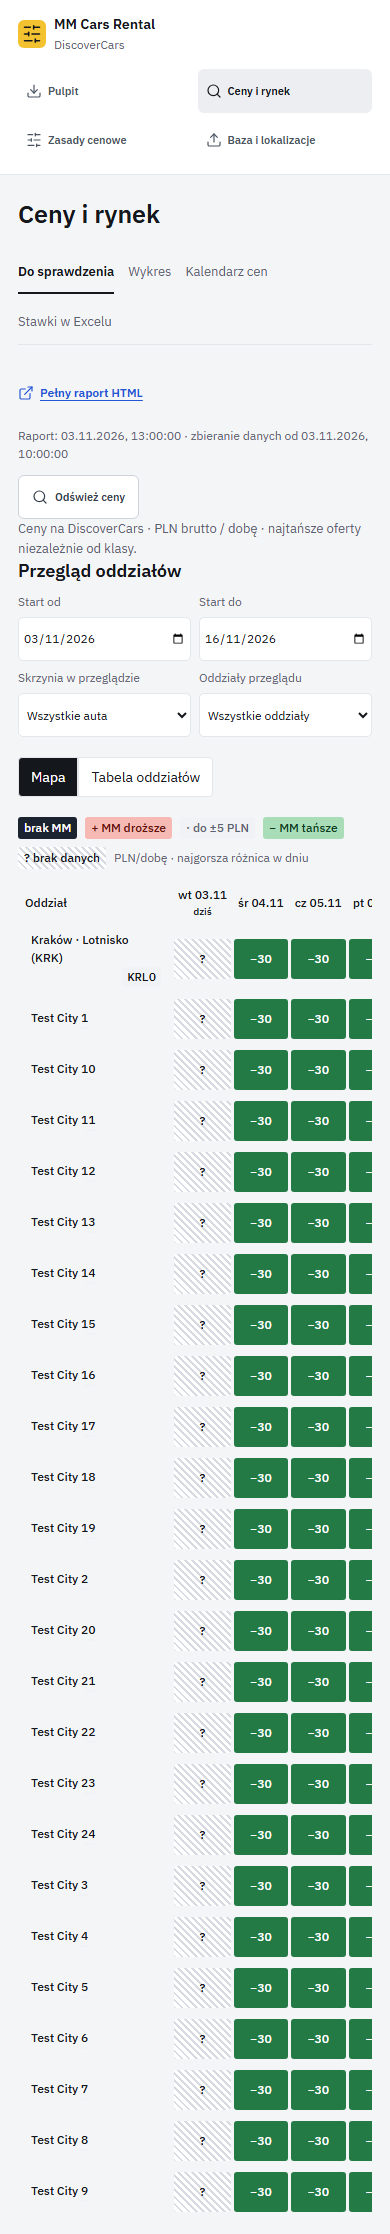
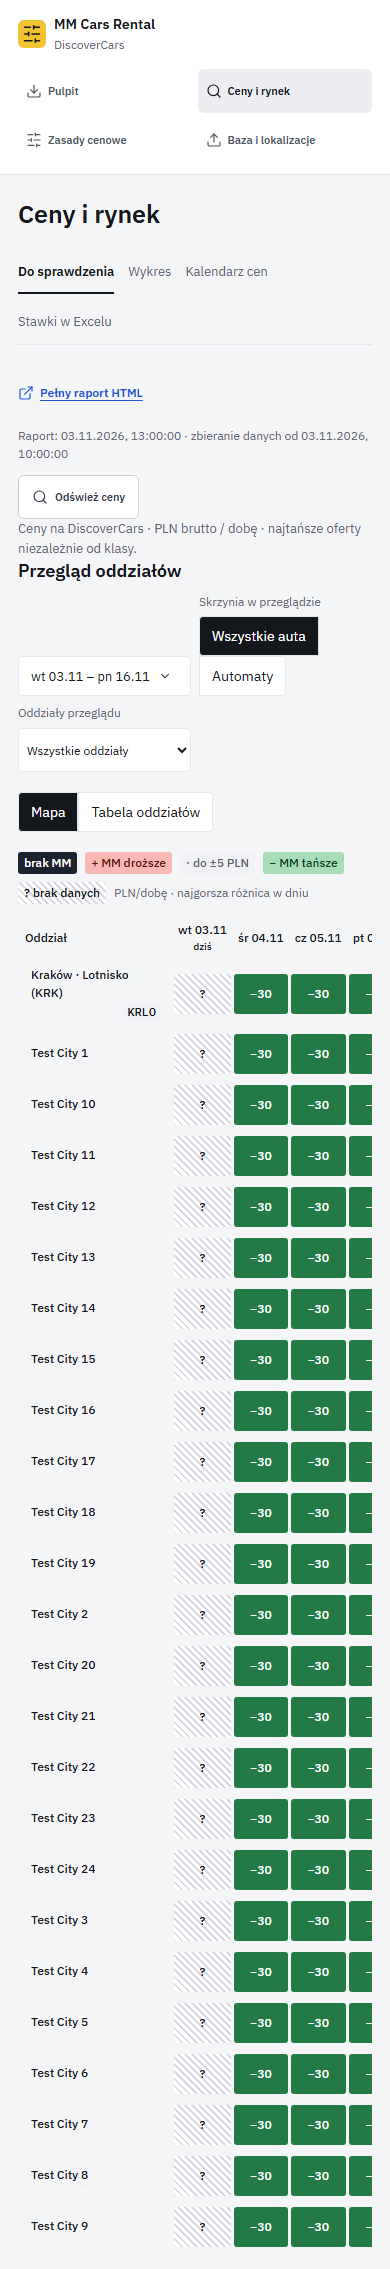
ui(stage 3): streamline branch matrix and explain bands in a side panel

diff --git a/rules-panel/src/BandMatrix.jsx b/rules-panel/src/BandMatrix.jsx
@@ -2,10 +2,13 @@ import React,{useEffect,useMemo,useState} from 'react';
 import {knownGroups} from './policy.mjs';
 import {buildBandMatrix,bandLabel,bandEvidence,MATRIX_BANDS} from './band-matrix.mjs';
 import {money} from './market-model.mjs';
-import {dayLabel} from './operations.mjs';
-import {gapLabel} from './market-review.mjs';
+import {weekdayDate,isWeekend} from './visual-format.mjs';
+import {PriceBadge} from './PriceBadge.jsx';
+import {BandDetail} from './BandDetail.jsx';
+const dayLabel=value=>weekdayDate(value,true);
 
-export function BandMatrix({data,rows,dates,location,transmission,model,workspace,service,onSelect,highlight}) {
+
+export function BandMatrix({data,rows,dates,location,transmission,model,workspace,service,onSelect,highlight,filters,onRules,onExcel}) {
  const groups=knownGroups(model),zones=data.locations.find(l=>l.scraper_label===location)?.zones??[];
  const [group,setGroup]=useState(groups.includes('CDMV')?'CDMV':groups[0]);
  const [chosen,setChosen]=useState('');const zone=zones.includes(chosen)?chosen:zones[0];
@@ -22,18 +25,23 @@ export function BandMatrix({data,rows,dates,location,transmission,model,workspac
  useEffect(()=>{if(!highlight)return;setLimit(n=>Math.max(n,dates.indexOf(highlight)+1));requestAnimationFrame(()=>document.getElementById('band-day-'+highlight)?.scrollIntoView({block:'nearest'}));},[highlight,dates.join(',')]);
  const current=state.key===key?state:{};
  const matrix=useMemo(()=>buildBandMatrix(dates,rows,data.report.durations),[dates,rows,data.report.durations]);
- function enriched(row){return {...row,excelSelection:{zone,group},excelEvidence:bandEvidence(current.data,row.duration)};}
+ const active=matrix.flatMap(day=>day.cells.map(cell=>({date:day.date,cell}))).find(item=>expanded===item.date+'-'+item.cell.band[0]);
+ const dayIndex=active?matrix.findIndex(day=>day.date===active.date):-1;
+ function moveDay(step){const day=matrix[dayIndex+step];if(day&&active){setExpanded(day.date+'-'+active.cell.band[0]);setLimit(n=>Math.max(n,dayIndex+step+1));}}
+
  return <section className="band-workspace">
-  <div className="market-filters"><label>Klasa w tabeli<select value={group} onChange={e=>setGroup(e.target.value)}>{groups.map(g=><option key={g}>{g}</option>)}</select></label>{zones.length>1&&<label>Kod w tabeli<select value={zone} onChange={e=>setChosen(e.target.value)}>{zones.map(z=><option key={z}>{z}</option>)}</select></label>}<span className="evidence-note">Stawka do importu · {zone??'brak kodu'} · PLN/dobę</span></div>
+  <div className="market-filters band-filters">{filters}<label>Klasa w tabeli<select value={group} onChange={e=>setGroup(e.target.value)}>{groups.map(g=><option key={g}>{g}</option>)}</select></label><div><span className="filter-label">Kod w tabeli</span><div className="segmented zone-segments" role="group" aria-label="Kod w tabeli">{zones.map(z=><button className="code" key={z} aria-pressed={zone===z} onClick={()=>setChosen(z)}>{z}</button>)}</div></div><span className="evidence-note">Stawka do importu · {zone??'brak kodu'} · PLN/dobę</span></div>
   <details className="technical-details"><summary>Źródła i zakres porównania</summary><p>Stawka do importu: wybrana klasa i kod z ostatniego poprawnego Excela. Różnica rynku: najtańsze oferty MM i konkurencji, niezależnie od klasy. W przedziale pokazano największą przewagę konkurencji, nie średnią. Brak MM oznacza potwierdzony brak oferty; brak danych oznacza niepotwierdzony odczyt.</p></details>
   {current.error&&<p role="alert">{current.error}<button className="text-button" onClick={()=>setAttempt(n=>n+1)}>Ponów odczyt Excela</button></p>}
   {current.data&&current.data.report.runId!==current.data.excel.runId&&<p className="alert">Excel i rynek pochodzą z różnych uruchomień. Nie traktuj stawki importowej jako aktualnej ceny na stronie.</p>}
   {current.data?.warnings?.map((w,i)=><p className="alert" key={i}>{w}</p>)}
-  <table className="band-matrix"><thead><tr><th>Data startu</th>{MATRIX_BANDS.map(b=><th key={b[0]}>{bandLabel(b)} dni{b[1]===20&&<small>rynek 8–14 dni</small>}</th>)}</tr></thead><tbody>{matrix.slice(0,limit).map(day=><React.Fragment key={day.date}><tr id={'band-day-'+day.date} className={'band-date '+(day.date===highlight?'highlight-day':'')}><th scope="row">{dayLabel(day.date)}</th>{day.cells.map(cell=>{
+  <table className="band-matrix"><thead><tr><th>Start</th>{MATRIX_BANDS.map(b=><th key={b[0]}>{bandLabel(b)} dni{b[1]===20&&<small>rynek 8–14 dni</small>}</th>)}</tr></thead><tbody>{matrix.slice(0,limit).map(day=><tr key={day.date} id={'band-day-'+day.date} className={'band-date '+(isWeekend(day.date)?'weekend ':'')+(day.date===highlight?'highlight-day':'')}><th scope="row">{dayLabel(day.date)}</th>{day.cells.map(cell=>{
    const id=day.date+'-'+cell.band[0],open=expanded===id;
    const rate=bandEvidence(current.data,cell.band[0])?.rows.find(r=>r.date===day.date)?.importRate;
-   return <td key={id}><button className="band-cell" aria-label={`${dayLabel(day.date)} · ${bandLabel(cell.band)} dni`} aria-expanded={open} onClick={()=>setExpanded(open?null:id)}><small className="mobile-band">{bandLabel(cell.band)} dni</small><strong>{current.busy?'Odczyt…':rate==null?'Brak stawki':money(rate)}</strong><span className={cell.worstGap<0?'above':''}>{gapLabel(cell.worstGap)}</span>{cell.missingMM>0&&<small>Brak MM: {cell.missingMM}</small>}{cell.unavailable>0&&<small>Brak danych: {cell.unavailable}/{cell.expected.length}</small>}{!cell.expected.length&&<small>Brak odczytów</small>}</button></td>;
-  })}</tr>{day.cells.filter(c=>expanded===day.date+'-'+c.band[0]).map(cell=><tr className="band-expanded" key={cell.band[0]}><td colSpan={5}><section className="band-scenarios" aria-label={`Najem ${bandLabel(cell.band)} dni`}><h3>{dayLabel(day.date)} · {bandLabel(cell.band)} dni</h3>{cell.band[1]===20&&<p className="evidence-note">15–20 dni: brak sprawdzeń rynku. Stawka Excela obejmuje cały przedział 8–20.</p>}{cell.unavailable>0&&<p className="evidence-note">Brak potwierdzonych cen dla: {cell.expected.filter(d=>!cell.rows.some(r=>r.duration===d&&r.marketConfirmed)).join(', ')} dni.</p>}<table><thead><tr><th>Najem</th><th>MM / dobę</th><th>Konkurencja / dobę</th><th>Różnica</th><th></th></tr></thead><tbody>{cell.rows.map(row=><tr key={row.key}><th>{row.duration} dni</th><td>{row.marketConfirmed?money(row.mm):'Brak danych'}</td><td>{row.marketConfirmed?money(row.competitor):'Brak danych'}<small>{row.provider}</small></td><td>{gapLabel(row.gap)}</td><td><button className="text-button" onClick={()=>onSelect(enriched(row),cell.rows.map(enriched))}>Szczegóły</button></td></tr>)}</tbody></table>{!cell.rows.length&&<p>Brak sprawdzonych scenariuszy w tym przedziale.</p>}</section></td></tr>)}</React.Fragment>)}</tbody></table>
+   return <td key={id}><button className="band-cell" aria-label={`${weekdayDate(day.date)} · ${bandLabel(cell.band)} dni${cell.missingMM?' · brak MM w '+cell.missingMM+' z '+cell.expected.length+' długości':''}`} aria-expanded={open} onClick={()=>setExpanded(open?null:id)}><small className="mobile-band">{bandLabel(cell.band)} dni</small><PriceBadge gap={cell.worstGap} missing={cell.missingMM>0} unavailable={cell.worstGap===null&&!cell.missingMM}/><strong>{current.busy?'Odczyt…':rate==null?'Brak stawki':money(rate)}</strong>{cell.unavailable>0&&<small className="band-unavailable">? {cell.unavailable}/{cell.expected.length}</small>}</button></td>;
+  })}</tr>)}</tbody></table>
+  <p className="evidence-note">Liczba: stawka do importu · etykieta: najgorsza różnica rynku MM − konkurent w paśmie · brak MM: potwierdzony brak oferty w paśmie</p>
+  {active&&<BandDetail {...active} zone={zone} group={group} result={current.data} location={location} transmission={transmission} data={data} model={model} workspace={workspace} service={service} onClose={()=>setExpanded(null)} onMove={moveDay} canPrevious={dayIndex>0} canNext={dayIndex<matrix.length-1} onSelect={onSelect} onRules={onRules} onExcel={onExcel}/>}
   {matrix.length>limit&&<button className="button" onClick={()=>setLimit(n=>n+20)}>Pokaż kolejne 20 dat</button>}
  </section>;
 }

diff --git a/rules-panel/src/AttentionView.jsx b/rules-panel/src/AttentionView.jsx
@@ -1,10 +1,12 @@
 import React,{useMemo,useState,useEffect} from 'react';
+import {ChevronLeft,ChevronRight,ChevronDown} from 'lucide-react';
+import {weekdayDate} from './visual-format.mjs';
 import {AttentionMap} from './AttentionMap.jsx';
 import {buildAttentionMap} from './attention-map.mjs';
 import {warsawToday,plusDays,validDate,dateRange} from './market-model.mjs';
 import {branchOverview,locationLabel} from './operations.mjs';
 import {BandMatrix} from './BandMatrix.jsx';
-export function AttentionView({data,onSelect,request,model,workspace,service,calendar}) {
+export function AttentionView({data,onSelect,request,model,workspace,service,calendar,onRules,onExcel}) {
  const [from,setFrom]=useState(warsawToday);const [to,setTo]=useState(()=>plusDays(warsawToday(),13));
  const [transmission,setTransmission]=useState('all');const [kind,setKind]=useState('all');
  const [location,setLocation]=useState(request?.row?.location??'');
@@ -17,11 +19,13 @@ export function AttentionView({data,onSelect,request,model,workspace,service,cal
  const dates=useMemo(()=>rangeValid?dateRange(from,to):[],[from,to,rangeValid]);
  const map=useMemo(()=>buildAttentionMap(rows,dates),[rows,dates]);
  function openBranch(name,date=''){setLocation(name);setHighlight(date);}
+ const position=map.findIndex(item=>item.location===location),summary=branches.find(item=>item.location===location);
+ const rangeInputs=<><details className="range-picker"><summary>{weekdayDate(from,true)} – {weekdayDate(to,true)} <ChevronDown size={14}/></summary><div><label>Start od<input type="date" value={from} onChange={e=>setFrom(e.target.value)}/></label><label>Start do<input type="date" value={to} onChange={e=>setTo(e.target.value)}/></label></div></details><div><span className="filter-label">Skrzynia w przeglądzie</span><div className="segmented" role="group" aria-label="Skrzynia w przeglądzie">{[['all','Wszystkie auta'],['automatic','Automaty']].map(([value,label])=><button key={value} aria-pressed={transmission===value} onClick={()=>setTransmission(value)}>{label}</button>)}</div></div></>;
  return <section className="attention-view" aria-label="Przegląd oddziałów">
- <h2>{location?locationLabel(location):'Przegląd oddziałów'}</h2>
- <div className="market-filters"><label>Start od<input type="date" value={from} onChange={e=>setFrom(e.target.value)}/></label><label>Start do<input type="date" value={to} onChange={e=>setTo(e.target.value)}/></label><label>Skrzynia w przeglądzie<select value={transmission} onChange={e=>setTransmission(e.target.value)}><option value="all">Wszystkie auta</option><option value="automatic">Automaty</option></select></label><label>Oddziały przeglądu<select value={kind} onChange={e=>{setKind(e.target.value);setLocation('');}}><option value="all">Wszystkie oddziały</option><option value="airport">Lotniska</option><option value="branch">Poza lotniskami</option></select></label></div>
+ {location?<header className="branch-header"><div><button className="text-button" onClick={()=>setLocation('')}>Wszystkie oddziały ›</button><h2>{locationLabel(location)}</h2><div className="branch-navigation"><button className="icon-button" title="Poprzedni oddział" aria-label="Poprzedni oddział" disabled={position<=0} onClick={()=>openBranch(map[position-1].location)}><ChevronLeft size={18}/></button><span>{position+1} z {map.length} w przeglądzie</span><button className="icon-button" title="Następny oddział" aria-label="Następny oddział" disabled={position<0||position>=map.length-1} onClick={()=>openBranch(map[position+1].location)}><ChevronRight size={18}/></button></div></div>{summary&&<p>{summary.missingDates} dni bez MM · {summary.over} z {summary.comparable} MM droższe &gt;10 · {summary.unavailable} brak danych</p>}</header>:<h2>Przegląd oddziałów</h2>}
+ {!location&&<div className="market-filters">{rangeInputs}<label>Oddziały przeglądu<select value={kind} onChange={e=>{setKind(e.target.value);setLocation('');}}><option value="all">Wszystkie oddziały</option><option value="airport">Lotniska</option><option value="branch">Poza lotniskami</option></select></label></div>}
  {!rangeValid&&<p role="alert">Początek zakresu musi poprzedzać koniec.</p>}
- {!location?<><div className="segmented" aria-label="Układ przeglądu"><button aria-pressed={mode==='map'} onClick={()=>setMode('map')}>Mapa</button><button aria-pressed={mode==='table'} onClick={()=>setMode('table')}>Tabela oddziałów</button></div>{mode==='map'?<AttentionMap branches={map} dates={dates} locations={data?.locations??[]} events={calendar?.items??[]} onOpen={openBranch}/>:<><p className="evidence-note">Brak MM: liczba dat z przynajmniej jednym potwierdzonym brakiem oferty. Różnica cen nie oznacza błędu ani możliwości obniżki.</p><table className="attention-table"><thead><tr><th>Oddział</th><th>Daty bez MM</th><th>MM droższe &gt;10 PLN/dobę</th><th>Brak danych</th><th></th></tr></thead><tbody>{branches.map(b=><tr key={b.location}><th scope="row" data-label="Oddział">{locationLabel(b.location)}</th><td data-label="Daty bez MM">{b.missingDates}</td><td data-label="MM droższe >10 PLN/dobę">{b.share===null?'Brak porównania':`${(b.share*100).toLocaleString('pl-PL',{maximumFractionDigits:0})}% (${b.over}/${b.comparable})`}</td><td data-label="Brak danych">{b.unavailable}</td><td><button className="text-button" onClick={()=>openBranch(b.location)}>Sprawdź oddział</button></td></tr>)}</tbody></table><p className="evidence-note">Procent dotyczy sprawdzeń z potwierdzoną ceną MM i konkurenta. Braki ofert i danych nie wchodzą do mianownika.</p></>}</>:<><button className="button" onClick={()=>setLocation('')}>Wszystkie oddziały</button>{data&&<BandMatrix data={data} rows={rows.filter(r=>r.location===location)} dates={dates} location={location} transmission={transmission} model={model} workspace={workspace} service={service} onSelect={onSelect} highlight={highlight}/>}</>}
+ {!location?<><div className="segmented" aria-label="Układ przeglądu"><button aria-pressed={mode==='map'} onClick={()=>setMode('map')}>Mapa</button><button aria-pressed={mode==='table'} onClick={()=>setMode('table')}>Tabela oddziałów</button></div>{mode==='map'?<AttentionMap branches={map} dates={dates} locations={data?.locations??[]} events={calendar?.items??[]} onOpen={openBranch}/>:<><p className="evidence-note">Brak MM: liczba dat z przynajmniej jednym potwierdzonym brakiem oferty. Różnica cen nie oznacza błędu ani możliwości obniżki.</p><table className="attention-table"><thead><tr><th>Oddział</th><th>Daty bez MM</th><th>MM droższe &gt;10 PLN/dobę</th><th>Brak danych</th><th></th></tr></thead><tbody>{branches.map(b=><tr key={b.location}><th scope="row" data-label="Oddział">{locationLabel(b.location)}</th><td data-label="Daty bez MM">{b.missingDates}</td><td data-label="MM droższe >10 PLN/dobę">{b.share===null?'Brak porównania':`${(b.share*100).toLocaleString('pl-PL',{maximumFractionDigits:0})}% (${b.over}/${b.comparable})`}</td><td data-label="Brak danych">{b.unavailable}</td><td><button className="text-button" onClick={()=>openBranch(b.location)}>Sprawdź oddział</button></td></tr>)}</tbody></table><p className="evidence-note">Procent dotyczy sprawdzeń z potwierdzoną ceną MM i konkurenta. Braki ofert i danych nie wchodzą do mianownika.</p></>}</>:<>{data&&<BandMatrix data={data} rows={rows.filter(r=>r.location===location)} dates={dates} location={location} transmission={transmission} model={model} workspace={workspace} service={service} onSelect={onSelect} highlight={highlight} filters={rangeInputs} onRules={onRules} onExcel={onExcel}/>}</>}
  {!rows.length&&<p>Brak danych w wybranym zakresie.</p>}
  </section>;
 }

diff --git a/rules-panel/src/BandDetail.jsx b/rules-panel/src/BandDetail.jsx
@@ -1,0 +1,47 @@
+import React,{useEffect,useRef,useMemo} from 'react';
+import {X,ChevronUp,ChevronDown,ExternalLink,FileSpreadsheet} from 'lucide-react';
+import {previewPolicy} from './policy.mjs';
+import {bandLabel,bandEvidence} from './band-matrix.mjs';
+import {money,scenarioLink} from './market-model.mjs';
+import {locationLabel} from './operations.mjs';
+import {weekdayDate,signedPrice} from './visual-format.mjs';
+import {PriceBadge} from './PriceBadge.jsx';
+import {InlineDecision} from './InlineDecision.jsx';
+import {mixedBand} from './attention-map.mjs';
+
+export function BandDetail({date,cell,zone,group,result,location,transmission,data,model,workspace,service,onClose,onMove,canPrevious,canNext,onSelect,onRules,onExcel}) {
+ const dialog=useRef(null),heading=useRef(null),previous=useRef(document.activeElement);
+ const evidence=bandEvidence(result,cell.band[0]),record=evidence?.rows.find(row=>row.date===date);
+ const minima=useMemo(()=>Array.from({length:cell.band[1]-cell.band[0]+1},(_,i)=>previewPolicy(model,{zone,group,pickupDate:date,duration:cell.band[0]+i}).floor).filter(Number.isFinite),[model,zone,group,date,cell.band]);
+ const floor=minima.length?(Math.min(...minima)===Math.max(...minima)?money(minima[0]):money(Math.min(...minima))+'–'+money(Math.max(...minima))):'Brak minimum';
+ const enriched=row=>({...row,excelSelection:{zone,group},excelEvidence:evidence});
+ const selected=enriched(cell.rows[0]??{date,duration:cell.band[0],location,transmission});
+ const query={zone,group,pickupDate:date,duration:selected.duration};
+ useEffect(()=>{
+  const element=dialog.current,media=matchMedia('(min-width:1024px)');
+  function open(){if(element.open)element.close();media.matches?element.show():element.showModal();heading.current?.focus({preventScroll:true});}
+  open();media.addEventListener('change',open);
+  return()=>{media.removeEventListener('change',open);element.close();previous.current?.focus({preventScroll:true});};
+ },[]);
+ useEffect(()=>{heading.current?.focus({preventScroll:true});},[date,cell.band[0]]);
+ return <dialog ref={dialog} className="market-detail band-detail" aria-labelledby="band-detail-title" onCancel={e=>{e.preventDefault();onClose();}} onKeyDown={e=>{
+  if(e.key==='Escape'){e.preventDefault();onClose();}
+  else if(!e.altKey&&!e.ctrlKey&&!e.metaKey&&!/INPUT|SELECT|TEXTAREA/.test(e.target.tagName)&&['ArrowUp','ArrowDown'].includes(e.key)){e.preventDefault();onMove(e.key==='ArrowUp'?-1:1);}
+ }}>
+  <header className="market-detail-header"><div><h2 id="band-detail-title" ref={heading} tabIndex={-1}>{weekdayDate(date,true)} · pasmo {bandLabel(cell.band)} dni</h2><p>{locationLabel(location)} · <span className="code">{group}</span> <span className="code">{zone}</span></p></div><button className="icon-button" title="Zamknij szczegóły pasma" aria-label="Zamknij szczegóły pasma" onClick={onClose}><X size={20}/></button></header>
+  {result&&result.report.runId!==result.excel.runId&&<p className="alert">Excel i rynek pochodzą z różnych uruchomień. Stawka importowa nie jest aktualną ceną na stronie.</p>}
+  {result?.warnings?.map((warning,i)=><p className="alert" key={i}>{warning}</p>)}
+  <dl className="band-key-rates"><div><dt>Baza</dt><dd>{money(record?.baseline)}</dd></div><div><dt>Do importu</dt><dd>{money(record?.importRate)}</dd>{Number.isFinite(record?.baseline)&&Number.isFinite(record?.importRate)&&<small>{signedPrice(record.importRate-record.baseline)} PLN</small>}</div><div><dt>Minimum reguł teraz</dt><dd>{floor}</dd></div></dl>
+  <p className="evidence-note">PLN/dobę. Minimum pochodzi z reguł wyświetlanych w panelu (także szkicu), nie z historycznej decyzji Excela.</p>
+  {mixedBand(cell.rows)&&<p className="alert" role="status"><strong>Niespójne pasmo.</strong> Dla części długości MM jest droższe o ponad 5 PLN/d, a dla innych tańsze o ponad 5 PLN/d.</p>}
+  <section className="band-scenarios" aria-label={`Najem ${bandLabel(cell.band)} dni`}><h3>Rynek w tym paśmie</h3>
+   {cell.band[1]===20&&<p className="evidence-note">15–20 dni: brak sprawdzeń rynku. Stawka Excela obejmuje cały przedział 8–20.</p>}
+   {cell.unavailable>0&&<p className="evidence-note">Brak potwierdzonych cen dla: {cell.expected.filter(d=>!cell.rows.some(r=>r.duration===d&&r.marketConfirmed)).join(', ')} dni.</p>}
+   <table><thead><tr><th>Najem</th><th>MM</th><th>Konkurent</th><th>Różnica</th><th>Pozycja</th><th></th></tr></thead><tbody>{cell.rows.map(row=><tr key={row.key}><th>{row.duration} dni</th><td>{row.marketConfirmed?money(row.mm):'?'}</td><td>{row.marketConfirmed?money(row.competitor):'?'}<small>{row.provider}</small></td><td><PriceBadge gap={row.gap} missing={row.marketConfirmed&&row.mm===null} unavailable={!row.marketConfirmed}/></td><td>{row.rankLabel??'Brak danych'}</td><td><button className="text-button" onClick={()=>{onClose();onSelect(enriched(row),cell.rows.map(enriched));}}>Szczegóły</button></td></tr>)}</tbody></table>
+   {!cell.rows.length&&<p>Brak sprawdzonych scenariuszy w tym przedziale.</p>}
+  </section>
+  <details className="technical-details"><summary>Szczegóły zapisanej decyzji</summary>{evidence?<InlineDecision lockedSelection key={date+'-'+group+'-'+zone} row={selected} data={data} model={model} workspace={workspace} service={service}/>:<p>Brak odczytanego zapisu Excela dla tego pasma.</p>}</details>
+  <div className="event-actions"><button className="button primary" disabled={!zone||!group} onClick={()=>{onClose();onRules(query);}}>Zobacz reguły dla tej pozycji</button>{cell.rows.length>0&&<a className="button" href={scenarioLink(data.report.runId,selected)} target="_blank" rel="noreferrer"><ExternalLink size={16}/>Scenariusz</a>}<button className="button" disabled={!zone} onClick={()=>{onClose();onExcel(selected);}}><FileSpreadsheet size={16}/>Pełna tabela</button></div>
+  <nav className="detail-navigation" aria-label="Sąsiednie daty w paśmie"><button className="button" disabled={!canPrevious} onClick={()=>onMove(-1)}><ChevronUp size={16}/>Poprzedni dzień</button><button className="button" disabled={!canNext} onClick={()=>onMove(1)}><ChevronDown size={16}/>Następny dzień</button></nav>
+ </dialog>;
+}

diff --git a/rules-panel/src/redesign.css b/rules-panel/src/redesign.css
@@ -30,3 +30,11 @@ body{background:var(--bg)}.brand-symbol{width:28px;height:28px;background:var(--
 .attention-map th:first-child .code{margin-left:auto}.attention-map td{padding:0}.attention-map .map-cell{display:flex;gap:3px;align-items:center;justify-content:center;min-height:40px;min-width:52px;width:100%;border:0;border-radius:3px;font:inherit;font-weight:500}
 .attention-map .map-total{text-align:center;font-weight:600;padding:8px}.attention-map .weekend{background:var(--nav-active)}.attention-map small{display:block;font-size:10px}.highlight-day>th{box-shadow:inset 3px 0 var(--accent);background:#eaf0fd}
 @media(max-width:760px){.attention-map th:first-child{min-width:150px;max-width:160px;white-space:normal}.attention-map th:first-child button{display:block}.attention-map th:first-child .code{display:block;width:fit-content}}
+.branch-header{display:flex;justify-content:space-between;gap:12px;align-items:center;margin:8px 0 16px}.branch-header h2{margin:4px 0}.branch-header p,.branch-navigation{font-size:12px;color:var(--muted)}.branch-navigation{display:flex;align-items:center;gap:10px}
+.band-filters{display:flex;flex-wrap:wrap;gap:12px;align-items:end}.band-filters label{max-width:160px}.band-filters>.evidence-note{display:none}.filter-label{font-size:12px;color:var(--muted);display:block;margin-bottom:5px}.band-filters .segmented,.market-filters .segmented{margin:0}
+.range-picker{position:relative;align-self:end}.range-picker>summary{min-height:40px;display:flex;align-items:center;gap:8px;padding:8px 12px;border:1px solid var(--line);border-radius:4px;background:white;cursor:pointer;font-size:13px}.range-picker>div{position:absolute;z-index:5;top:100%;left:0;display:grid;grid-template-columns:1fr 1fr;gap:8px;background:white;border:1px solid var(--line);padding:12px;width:340px;max-width:calc(100vw - 40px);box-shadow:0 4px 12px #14171c12}.range-picker input{width:100%;min-width:0}
+.band-matrix{border-collapse:collapse;width:100%;table-layout:fixed}.band-matrix th{font-size:12px;font-weight:500}.band-matrix>tbody>tr>th{width:90px;text-align:left}.band-matrix>tbody>tr>td{padding:2px;border-bottom:1px solid var(--line-soft)}.band-matrix .weekend>th{background:var(--nav-active)}
+.band-matrix .band-cell{display:flex;flex-wrap:wrap;align-items:center;justify-content:space-between;gap:4px;min-height:44px;padding:6px 8px;background:white;border:1px solid transparent;border-radius:3px;width:100%;text-align:right}
+.band-matrix .band-cell strong{font-size:14px;overflow-wrap:anywhere}.band-matrix .band-cell[aria-expanded=true]{background:#eaf0fd;outline:2px solid var(--ink);outline-offset:-2px}.band-unavailable{color:var(--muted);font-size:10px}.band-cell .mobile-band{display:none}
+.band-detail[open]{width:min(580px,calc(100vw - 24px));max-width:calc(100vw - 24px);gap:12px}.band-key-rates{display:grid;grid-template-columns:repeat(3,minmax(0,1fr));gap:10px;padding:14px 0;border-bottom:1px solid var(--line)}.band-key-rates dt{font-size:12px;color:var(--muted)}.band-key-rates dd{margin:5px 0 0;font-weight:600;font-size:18px;overflow-wrap:anywhere}.band-key-rates small{font-size:12px}.band-detail .band-scenarios{padding:0;background:none;border:0}.band-detail table{width:100%;table-layout:fixed;font-size:12px}.band-detail td,.band-detail th{padding:8px 3px;overflow-wrap:anywhere;text-align:right}.band-detail td:first-child,.band-detail th:first-child{text-align:left}.band-detail td small{display:block;font-size:10px;color:var(--muted)}.band-detail .price-badge{font-size:11px;padding:2px 3px}.band-detail .inline-decision{border:0}.band-detail .event-actions{display:flex;flex-wrap:wrap;gap:8px}
+@media(max-width:760px){.branch-header{display:block}.band-filters{display:flex}.band-filters .range-picker{width:100%}.band-filters .range-picker>summary{justify-content:space-between}.band-matrix thead{display:table-header-group}.band-matrix tbody{display:table-row-group}.band-matrix .band-date{display:table-row}.band-matrix .band-date>th,.band-matrix .band-date>td{display:table-cell;padding:1px}.band-matrix th{font-size:10px}.band-matrix .band-cell{display:flex;flex-direction:column;justify-content:center;padding:4px 1px;gap:3px;min-height:60px}.band-matrix .band-cell strong{font-size:11px}.band-matrix .price-badge{font-size:10px;padding:2px}.band-detail[open]{width:100%;max-width:100%;padding:16px}.band-key-rates dd{font-size:15px}.band-detail table{font-size:11px}.band-detail .text-button{font-size:11px;padding:3px}.band-detail .price-badge{white-space:normal}}

diff --git a/rules-panel/src/MarketWorkspace.jsx b/rules-panel/src/MarketWorkspace.jsx
@@ -61,7 +61,7 @@ export function MarketWorkspace({model,workspace,service,calendar,market,request
         {data.report.quality==='failure'&&<div className="alert">Dane rynku są dostępne. Ten przebieg nie opublikował nowych plików Excel.</div>}
         {Date.now()-Date.parse(data.report.sourceStartedAt)>86400000&&<div className="alert">Zbieranie danych rozpoczęło się ponad 24 godziny temu. Dokładny czas odczytu poszczególnych cen nie jest zapisany w tym raporcie.</div>}
       </>}
-      <div hidden={view!=='attention'||!data}><AttentionView calendar={calendar} model={model} workspace={workspace} service={service} key={request?.id??"default"} request={request} data={data} onSelect={selectRow} selected={selected}/></div>
+      <div hidden={view!=='attention'||!data}><AttentionView onRules={onRules} onExcel={openExcel} calendar={calendar} model={model} workspace={workspace} service={service} key={request?.id??"default"} request={request} data={data} onSelect={selectRow} selected={selected}/></div>
       {data&&<>
         <div hidden={view==='attention'} className="market-filters chart-filters"><label>Oddziały<select value={kind} onChange={e=>{setKind(e.target.value);setLocation('*');}}><option value="airport">Lotniska</option><option value="all">Wszystkie oddziały</option><option value="branch">Poza lotniskami</option></select></label><label>Lokalizacja rynku<select value={location} onChange={e=>setLocation(e.target.value)}><option value="*">Wszystkie lokalizacje</option>{locations.map(l=><option key={l} value={l}>{locationLabel(l)}</option>)}</select></label><label>Skrzynia<select value={transmission} onChange={e=>setTransmission(e.target.value)}><option value="all">Wszystkie auta</option><option value="automatic">Tylko automaty</option></select></label>
         <details className="duration-select"><summary>Długość najmu: {durations.length?durations.join(', '):'brak'} dni</summary><fieldset><legend>Długości najmu</legend>{Array.from({length:13},(_,i)=>i+2).map(d=><label key={d}><input type="checkbox" checked={durations.includes(d)} onChange={e=>setDurations(old=>e.target.checked?[...old,d].sort((a,b)=>a-b):old.filter(n=>n!==d))}/>{d} dni</label>)}</fieldset></details>

diff --git a/rules-panel/src/InlineDecision.jsx b/rules-panel/src/InlineDecision.jsx
@@ -3,7 +3,7 @@ import {knownGroups} from './policy.mjs';
 import {DecisionEvidence} from './PricesView.jsx';
 import {money} from './market-model.mjs';
 
-export function InlineDecision({row,data,model,workspace,service,onRules}) {
+export function InlineDecision({row,data,model,workspace,service,onRules,lockedSelection=false}) {
   const groups=knownGroups(model);const [group,setGroup]=useState(row.excelSelection?.group??(groups.includes('CDMV')?'CDMV':groups[0]));
   const zones=data.locations.find(item=>item.scraper_label===row.location)?.zones??[];
   const [chosen,setChosen]=useState(row.excelSelection?.zone??'');const zone=zones.includes(chosen)?chosen:zones[0];
@@ -19,8 +19,8 @@ export function InlineDecision({row,data,model,workspace,service,onRules}) {
   },[key,attempt,service]);
   const current=state.key===key?state:{};const record=current.data?.rows.find(item=>item.date===row.date);
   return <section className="inline-decision"><h3>Dlaczego taka stawka w Excelu?</h3>
-    <label>Klasa w Excelu<select value={group} onChange={e=>setGroup(e.target.value)}>{groups.map(g=><option key={g}>{g}</option>)}</select></label>
-    {zones.length>1&&<label>Kod w Excelu<select value={zone} onChange={e=>setChosen(e.target.value)}>{zones.map(z=><option key={z}>{z}</option>)}</select></label>}
+    {!lockedSelection&&<label>Klasa w Excelu<select value={group} onChange={e=>setGroup(e.target.value)}>{groups.map(g=><option key={g}>{g}</option>)}</select></label>}
+    {!lockedSelection&&zones.length>1&&<label>Kod w Excelu<select value={zone} onChange={e=>setChosen(e.target.value)}>{zones.map(z=><option key={z}>{z}</option>)}</select></label>}
     <p className="evidence-note">Cena MM powyżej dotyczy najtańszej oferty MM, niekoniecznie wybranej klasy.</p>
     {current.busy&&<p role="status">Odczytywanie zapisu z Excela…</p>}
     {current.error&&<div role="alert">{current.error}<button className="button" onClick={()=>setAttempt(n=>n+1)}>Ponów</button></div>}

diff --git a/rules-panel/src/market.css b/rules-panel/src/market.css
@@ -70,10 +70,6 @@
 .rule-context{display:grid;gap:12px;padding:16px 0;border-block:1px solid var(--line);margin-bottom:20px;min-width:0}.rule-context p{margin:0}.rule-context>.button{justify-self:start}
 .context-rule{display:flex;align-items:center;justify-content:space-between;gap:12px;padding:12px 0;border-bottom:1px solid var(--line)}.context-rule>div{min-width:0;overflow-wrap:anywhere}.context-rule p{font-size:12px;color:var(--muted);margin-top:5px}
 @media(max-width:760px){
- .band-matrix,.band-matrix>tbody{display:block}.band-matrix>thead{display:none}.band-date{display:grid;grid-template-columns:repeat(2,minmax(0,1fr));border-bottom:1px solid var(--line)}
- .band-date>th{grid-column:1/-1}.band-date>td{min-width:0}.band-cell .mobile-band{display:block}.band-cell{min-height:94px}
- .band-expanded,.band-expanded>td{display:block;width:100%;padding:0}.band-scenarios table,.band-scenarios tbody{display:block}.band-scenarios thead{display:none}.band-scenarios tr{display:grid;grid-template-columns:repeat(2,minmax(0,1fr));gap:4px;padding:8px 0;border-bottom:1px solid var(--line)}
- .band-scenarios td,.band-scenarios th{border:0;min-width:0;text-align:left}.band-scenarios td:nth-child(2)::before{content:'MM / dobę';display:block;color:var(--muted)}.band-scenarios td:nth-child(3)::before{content:'Konkurencja / dobę';display:block;color:var(--muted)}
  .context-rule{align-items:start;flex-direction:column}.attention-view .attention-table td:not(:first-child){text-align:left}
 }
 @media(max-width:760px){.attention-view>.market-filters{display:grid;grid-template-columns:repeat(2,minmax(0,1fr))}.attention-view>.market-filters input,.attention-view>.market-filters select{font-size:12px;padding:9px 4px}.attention-view>.market-filters label{font-size:12px}}

diff --git a/rules-panel/src/main.jsx b/rules-panel/src/main.jsx
@@ -33,7 +33,6 @@ import "@fontsource/ibm-plex-sans/500.css";
 import "@fontsource/ibm-plex-sans/600.css";
 import "@fontsource/ibm-plex-mono/500.css";
 import {ViewTabs} from "./ViewTabs.jsx";
-import "./redesign.css";
 import "./styles.css";
 import * as policy from "./policy.mjs";
 import { Dashboard } from "./Dashboard.jsx";
@@ -53,6 +52,7 @@ import { BaselineView } from './BaselineView.jsx';
 import { ReportsView } from './ReportsView.jsx';
 import { RuleContext } from './RuleContext.jsx';
 import { MarketWorkspace } from './MarketWorkspace.jsx';
+import './redesign.css';
 import { useCalendarEvents } from './CalendarEvents.jsx';
 import { RuleCalendar } from './RuleCalendar.jsx';
 import {
